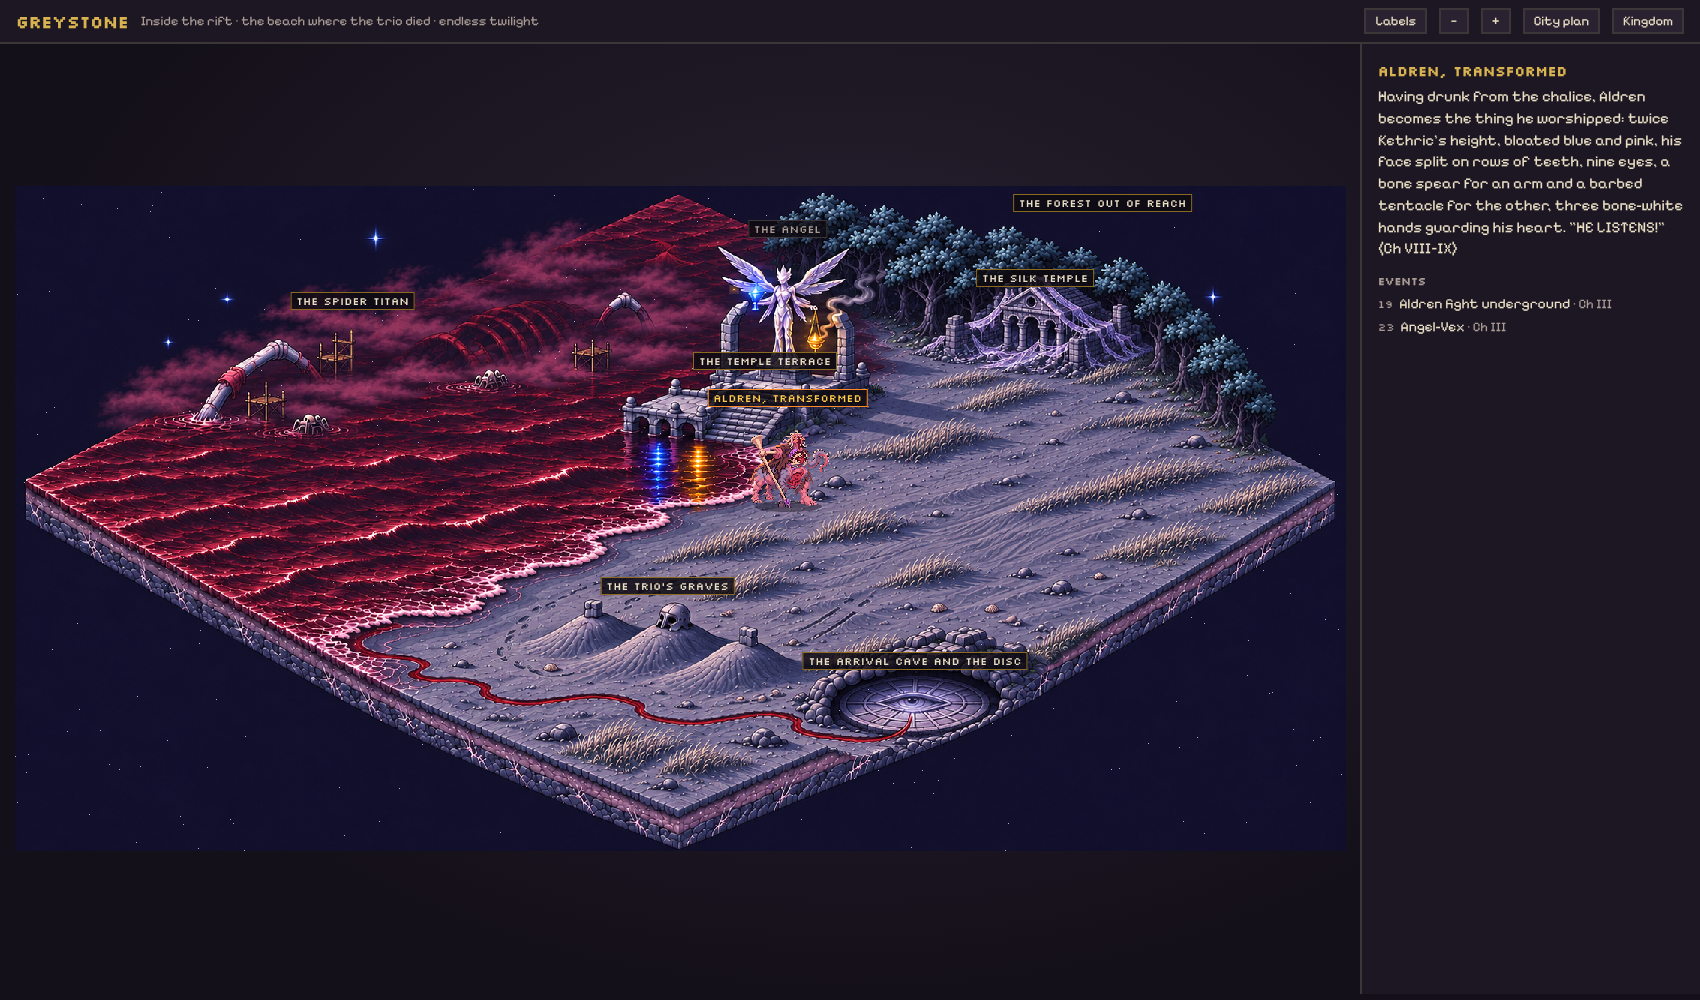
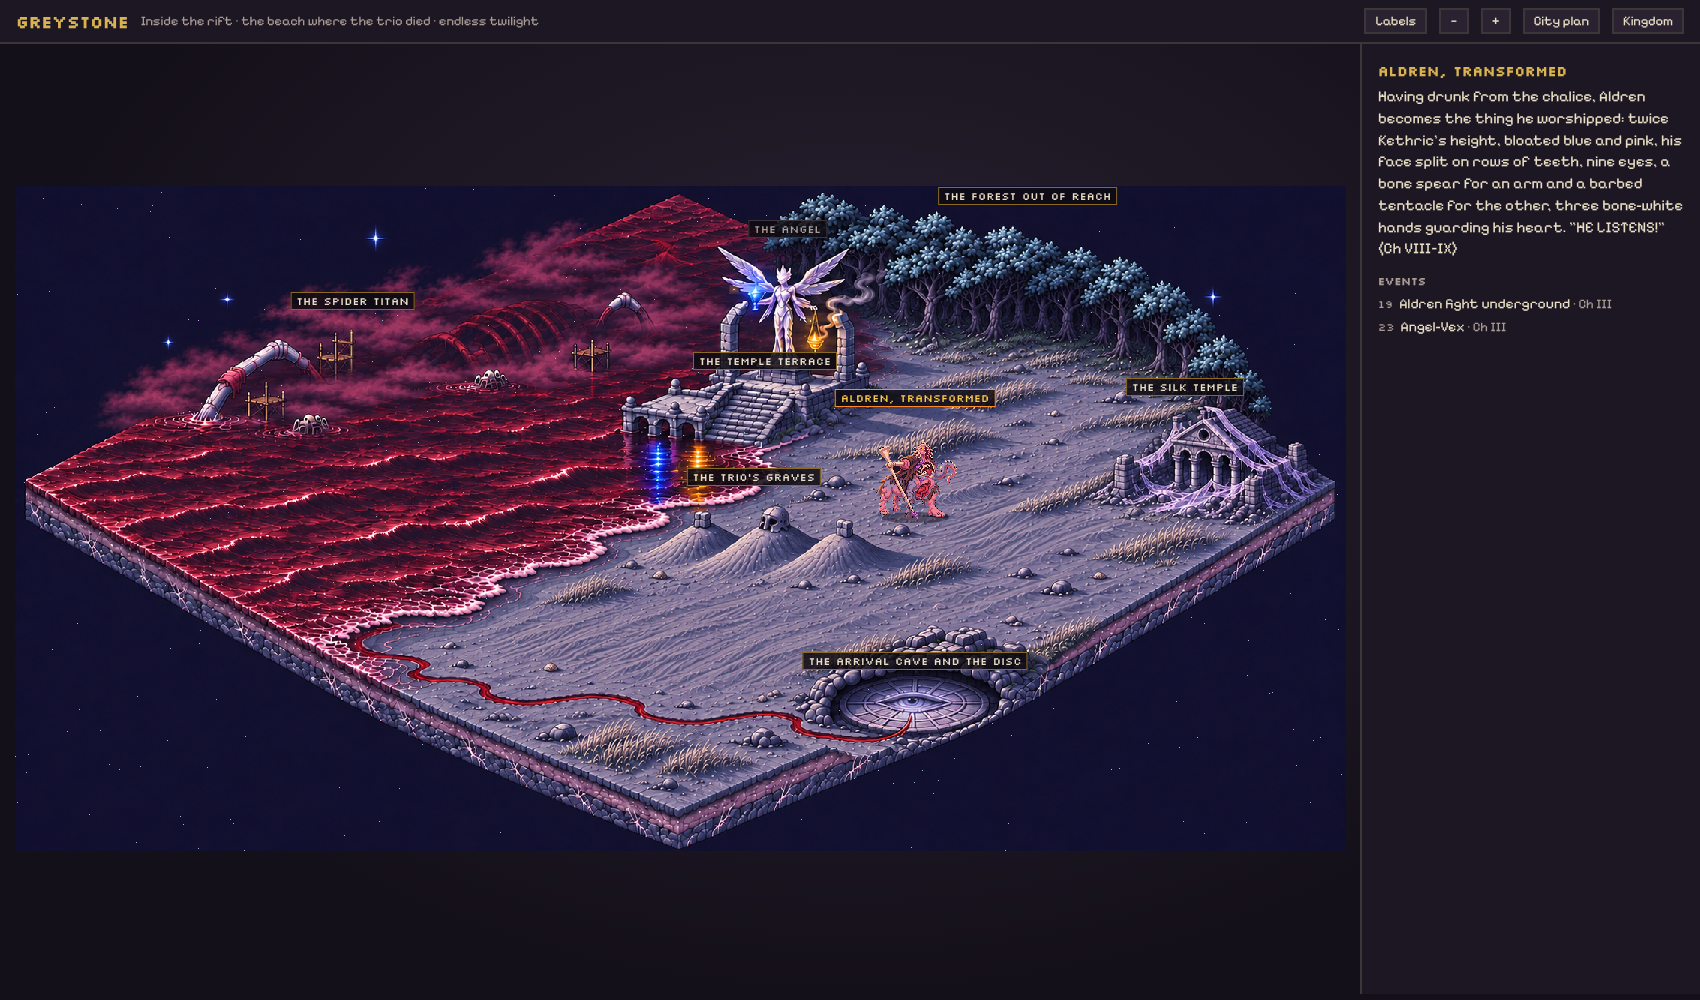
Greystone v8: silk temple on the right corner, graves up the beach away from the cave
Claude-Session: https://claude.ai/code/session_01Ww1GRCYWdxwk3Jd5UEEGip

diff --git a/ashfall-pixel/map/scenes/greystone-beach.js b/ashfall-pixel/map/scenes/greystone-beach.js
@@ -1,2 +1,2 @@
 window.SCENES = window.SCENES || {};
-window.SCENES["greystone-beach"] = {"w": 1774, "h": 887, "points": {"labels": {"arrival_disc": [1200, 650], "trio_graves": [870, 550], "silk_temple": [1360, 140], "temple_terrace": [1000, 250], "angel_vex": [1030, 75], "titan_island": [450, 170], "unreachable_forest": [1450, 40], "demon_aldren": [1030, 300]}, "water": [[1170, 725], [1050, 715], [900, 700], [760, 680], [600, 650], [470, 605]], "lamps": [[958, 138], [1060, 180]], "fires": [], "chimneys": [], "windows": [], "fountain": []}, "sprites": [{"id": "demon_aldren", "src": "assets/demon_aldren_px.png", "x": 1030, "y": 440, "h": 125, "shadow": true, "pixel": true}]};
+window.SCENES["greystone-beach"] = {"w": 1774, "h": 887, "points": {"labels": {"arrival_disc": [1200, 650], "trio_graves": [985, 405], "silk_temple": [1560, 285], "temple_terrace": [1000, 250], "angel_vex": [1030, 75], "titan_island": [450, 170], "unreachable_forest": [1350, 30], "demon_aldren": [1200, 300]}, "water": [[1170, 725], [1050, 715], [900, 700], [760, 680], [600, 650], [470, 605]], "lamps": [[958, 138], [1060, 180]], "fires": [], "chimneys": [], "windows": [], "fountain": []}, "sprites": [{"id": "demon_aldren", "src": "assets/demon_aldren_px.png", "x": 1200, "y": 455, "h": 125, "shadow": true, "pixel": true}]};
